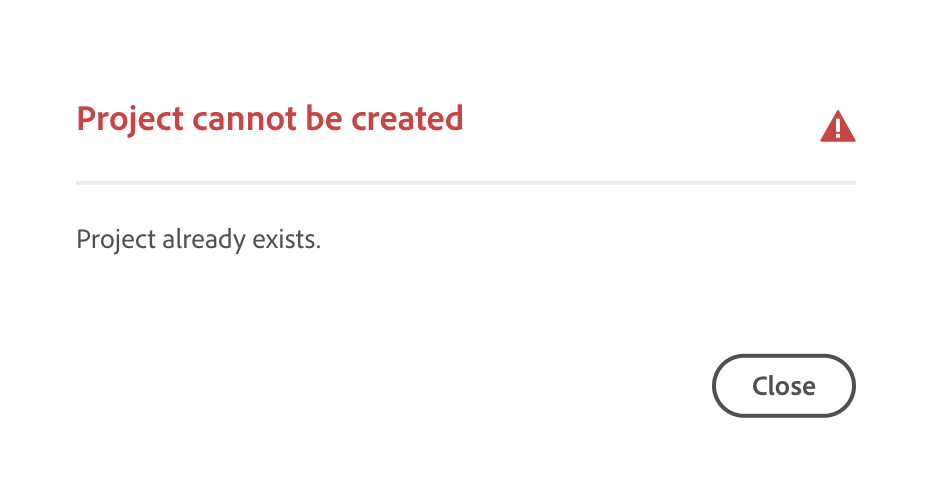
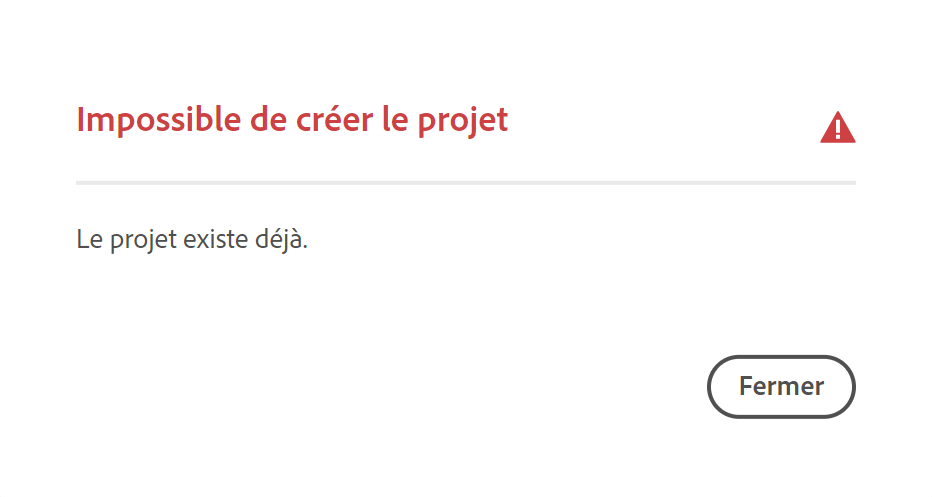
Updated by task 'AUTO_HANDOFF_1718275617276'  Changes for core/source commit https://git.corp.adobe.com/AdobeDocs/experience-manager-cloud-manager.en/commit/37f903821f156e57f24d2c495b797ed3348e7ba0

diff --git a/help/using/stage-prod-only.md b/help/using/stage-prod-only.md
@@ -3,9 +3,9 @@ title: Pipelines dédiés à l’évaluation uniquement et à la production uniq
 description: Découvrez comment séparer les déploiements d’évaluation et de production à l’aide de pipelines dédiés.
 exl-id: b7dd0021-d346-464a-a49e-72864b01cce3
 source-git-commit: c238caa22fdd71ae6aefd098331b626b9b951a0f
-workflow-type: tm+mt
+workflow-type: ht
 source-wordcount: '891'
-ht-degree: 92%
+ht-degree: 100%
 
 ---
 
@@ -32,7 +32,7 @@ Les pipelines dédiés à l’évaluation uniquement et à la production uniquem
 * Les **pipelines de déploiement en production uniquement** déploient uniquement vers un environnement de production avec la possibilité de sélectionner une exécution terminée et validée avec succès pour l’évaluation et de déployer les artefacts de celle-ci en production.
    * Les pipelines dédiés à la production uniquement réutilisent les artefacts des déploiements en évaluation, ignorant ainsi la phase de création.
 
-Ni les pipelines d’évaluation seule, ni les pipelines prod seule ne seront exécutés pendant l’exécution d’un pipeline de production pleine pile, et vice versa. Si le pipeline de production intermédiaire uniquement et de pile complète dispose de la variable **Lors des modifications Git** se déclenchent configuré et pointent vers la même branche et le même référentiel. seul le pipeline intermédiaire uniquement est démarré automatiquement. Les pipelines de production seule ne sont pas démarrés **Lors des modifications Git** car ils ne sont pas directement liés à un référentiel.
+Ni les pipelines dédiés uniquement à l’évaluation, ni ceux dédiés uniquement à la production ne sont exécutés pendant l’exécution d’un pipeline de production de pile complète, et vice versa. Si le pipeline dédié uniquement à l’évaluation et à la production de pile complète dispose du déclencheur **Lors des modifications Git** configuré et pointent vers la même branche et le même référentiel, seul le pipeline dédié uniquement à l’évaluation est lancé automatiquement. Les pipelines dédiés uniquement à la production ne sont pas lancé **Lors des modifications Git**, car ils ne sont pas directement liés à un référentiel.
 
 Ces pipelines dédiés offrent plus de flexibilité, mais tenez compte des informations ci-après concernant leur fonctionnement et les recommandations associées.
 

diff --git a/help/managing-code/private-repositories.md b/help/managing-code/private-repositories.md
@@ -4,9 +4,9 @@ description: Découvrez comment configurer Cloud Manager pour utiliser vos prop
 feature: Release Information
 exl-id: e0d103c9-c147-4040-bf53-835e93d78a0b
 source-git-commit: 6f14a8e9ff8e56f9f7b84799733e26b4c0ff8dcb
-workflow-type: tm+mt
+workflow-type: ht
 source-wordcount: '868'
-ht-degree: 88%
+ht-degree: 100%
 
 ---
 
@@ -122,11 +122,11 @@ Les référentiels privés validés peuvent être associés à des [pipelines fu
 
 ## Limites {#limitations}
 
-Certaines limites s’appliquent lors de l’utilisation de référentiels privés avec Cloud Manager.
+Certaines limites s’appliquent lors de l’utilisation de référentiels privés avec Cloud Manager.
 
-* Vous ne pouvez pas suspendre la validation de la requête de tirage à l’aide de la vérification GitHub de Cloud Manager.
-   * Si le référentiel GitHub est validé dans Cloud Manager, Cloud Manager tente toujours de valider les demandes d’extraction créées pour ce référentiel.
+* Vous ne pouvez pas suspendre la validation de la demande d’extraction à l’aide de la vérification GitHub à partir de Cloud Manager.
+   * Si le référentiel GitHub est validé dans Cloud Manager, ce dernier tente toujours de valider les demandes d’extraction créées pour ce référentiel.
 * Si l’application GitHub d’Adobe est supprimée de votre organisation GitHub, la fonctionnalité de validation des demandes d’extraction est supprimée pour tous les référentiels.
 * Aucune balise git ne sera créée et transmise lors de l’utilisation de référentiels privés sur des pipelines de pile complète de production.
-* Les pipelines qui utilisent des référentiels privés et le déclencheur de version on-commit ne sont pas démarrés automatiquement lorsqu’une nouvelle validation est poussée dans la branche sélectionnée.
-* [Fonctionnalité de réutilisation des artefacts](/help/getting-started/project-setup.md#build-artifact-reuse) ne s’applique pas aux référentiels privés.
+* Les pipelines qui utilisent des référentiels privés et le déclencheur de version sur validation ne sont pas lancés automatiquement lorsqu’une nouvelle validation est transmise dans la branche sélectionnée.
+* La [fonctionnalité de réutilisation des artefacts](/help/getting-started/project-setup.md#build-artifact-reuse) ne s’applique pas aux référentiels privés.

diff --git a/help/managing-code/managing-repositories.md b/help/managing-code/managing-repositories.md
@@ -3,9 +3,9 @@ title: Gestion des référentiels dans Cloud Manager
 description: Découvrez comment créer, afficher et modifier vos référentiels Git dans Cloud Manager.
 exl-id: 384b197d-f7a7-4022-9b16-9d83ab788966
 source-git-commit: 73add7bee892769d1b3864e3238aff26bf96162d
-workflow-type: tm+mt
+workflow-type: ht
 source-wordcount: '660'
-ht-degree: 88%
+ht-degree: 100%
 
 ---
 
@@ -38,7 +38,7 @@ La fenêtre **Référentiels** fournit des détails sur les référentiels :
 
 * Le type de référentiel
    * **Adobe** indique les référentiels gérés par Adobe.
-   * **GitHub** indique les référentiels GitHub privés que vous gérez ;
+   * **GitHub** indique les référentiels GitHub privés que vous gérez.
 * La date de création
 * Les pipelines associés au référentiel
 
@@ -77,10 +77,10 @@ La fenêtre **Informations sur le référentiel** s’ouvre et affiche les déta
 
 ## Vérifier les branches {#check-branches}
 
-La variable **Vérifier les branches / Créer un projet** L’action exécute deux fonctions en fonction de l’état du référentiel.
+L’action **Vérifier les branches / Créer un projet** exécute deux fonctions selon l’état du référentiel.
 
-* Si le référentiel est nouvellement créé, l’action crée un exemple de projet basé sur [l’archétype de projet AEM.](https://experienceleague.adobe.com/fr/docs/experience-manager-core-components/using/developing/archetype/overview)
-* Si le référentiel a déjà créé l’exemple de projet, il vérifie l’état du référentiel et de ses branches et renvoie les rapports si l’exemple de projet existe déjà.
+* Si le référentiel est nouvellement créé, l’action crée un exemple de projet basé sur [l’archétype de projet AEM](https://experienceleague.adobe.com/fr/docs/experience-manager-core-components/using/developing/archetype/overview).
+* Si le référentiel a déjà créé l’exemple de projet, il vérifie l’état du référentiel et de ses branches et signale si l’exemple de projet existe déjà.
 
 ![Action Vérifier les branches](assets/check-branches.png)
 
